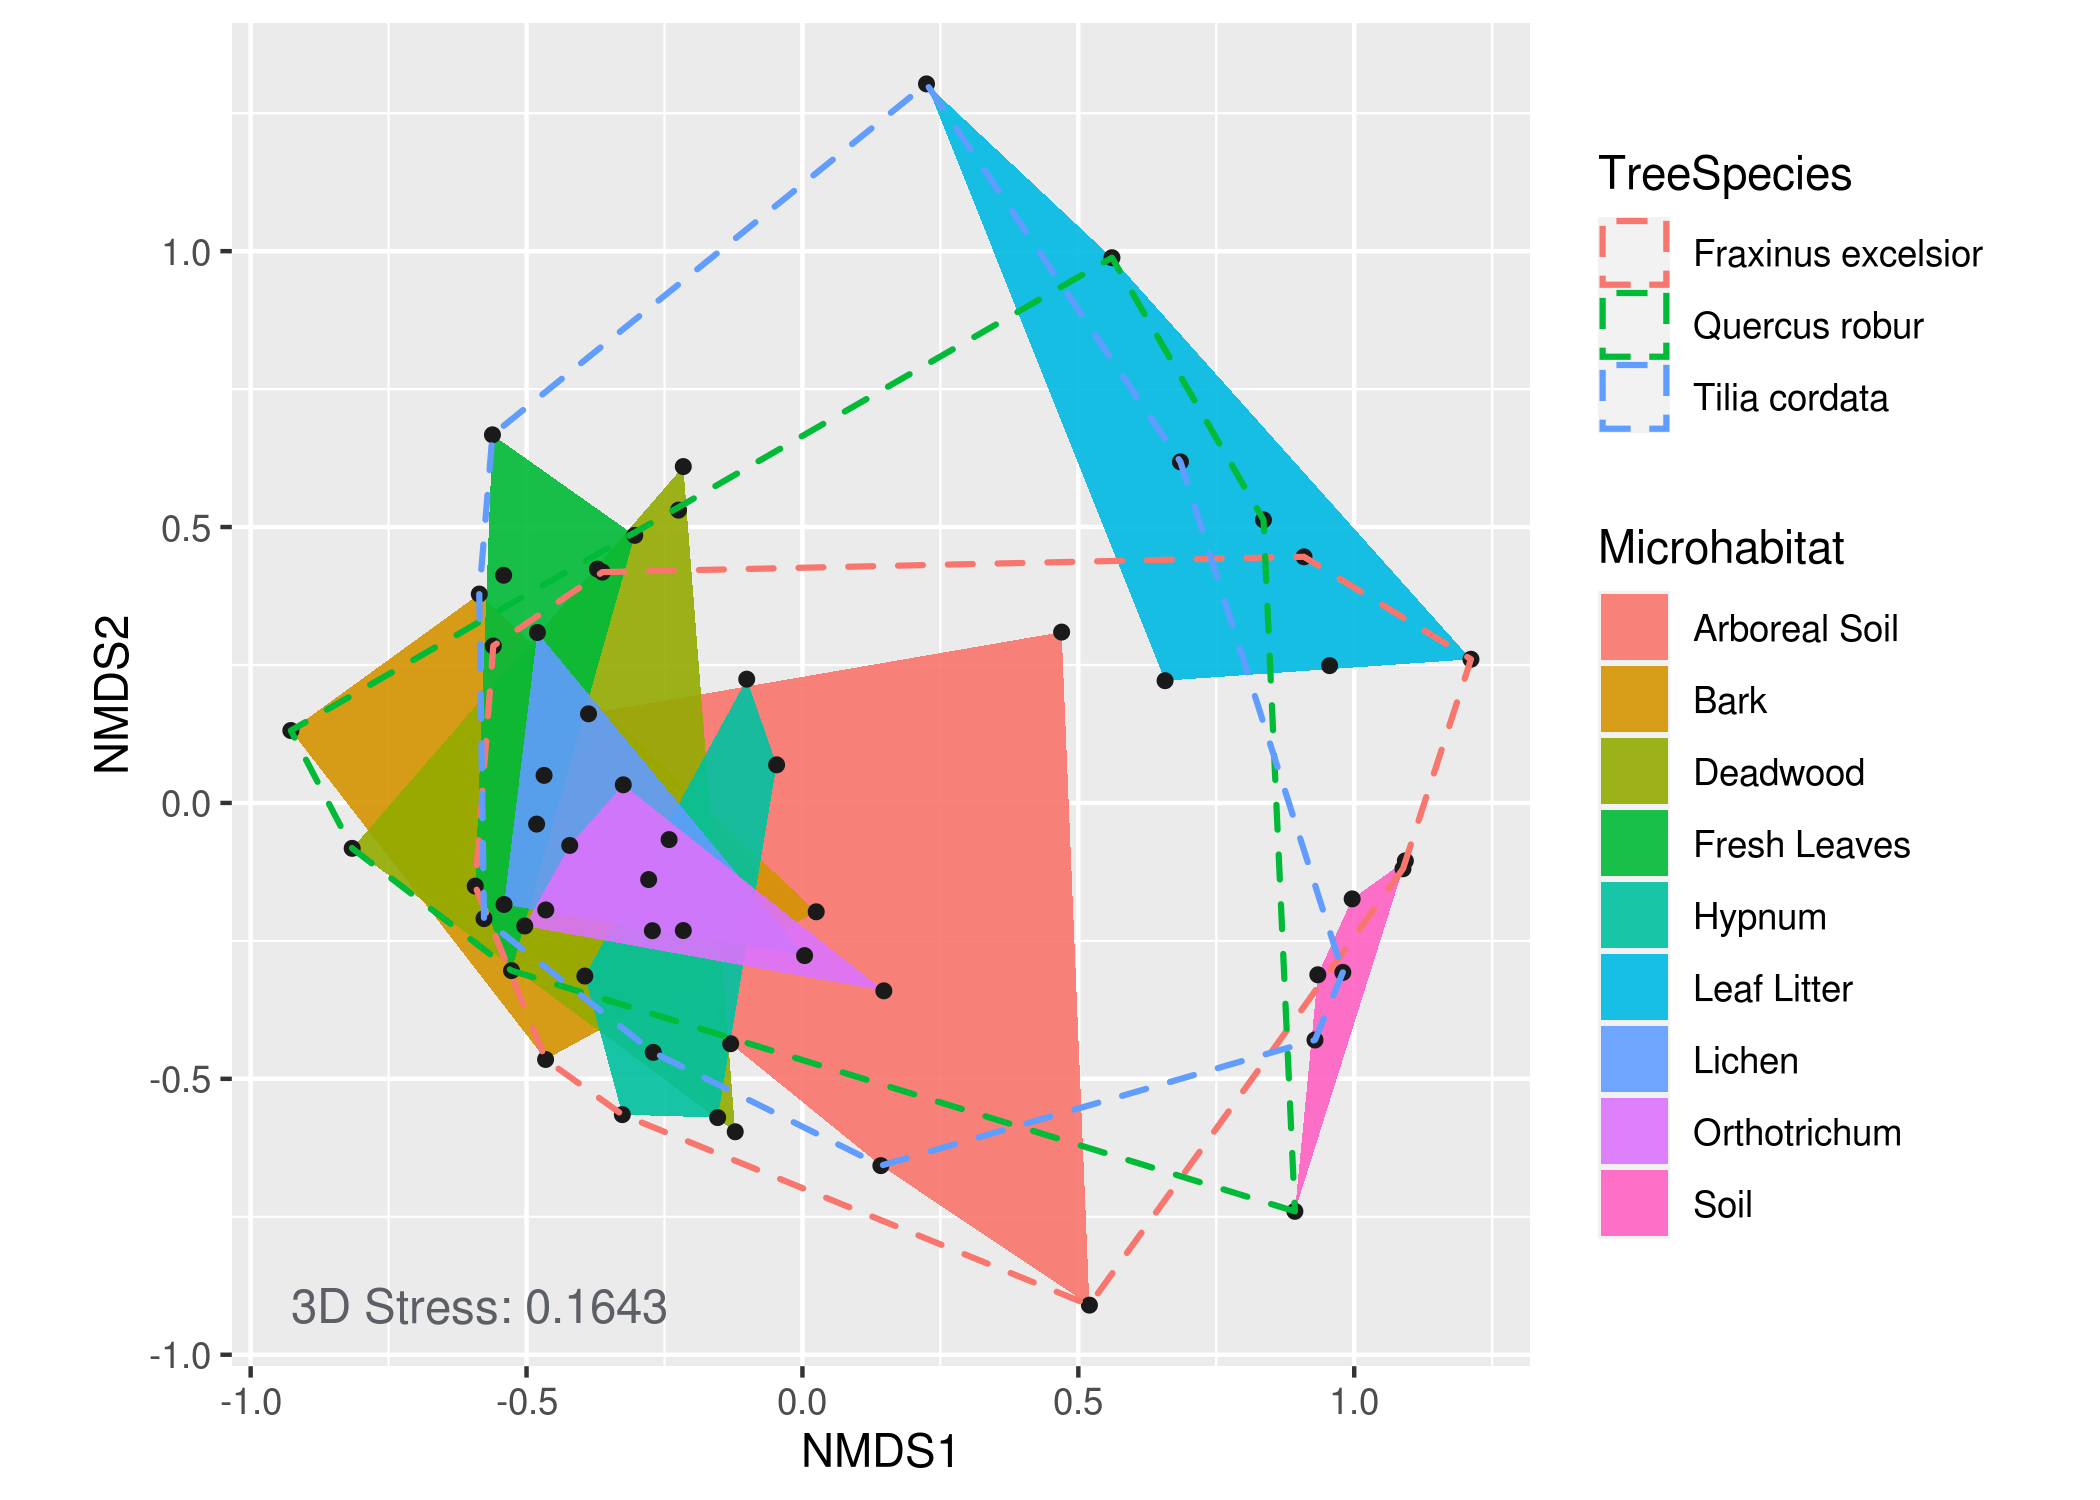
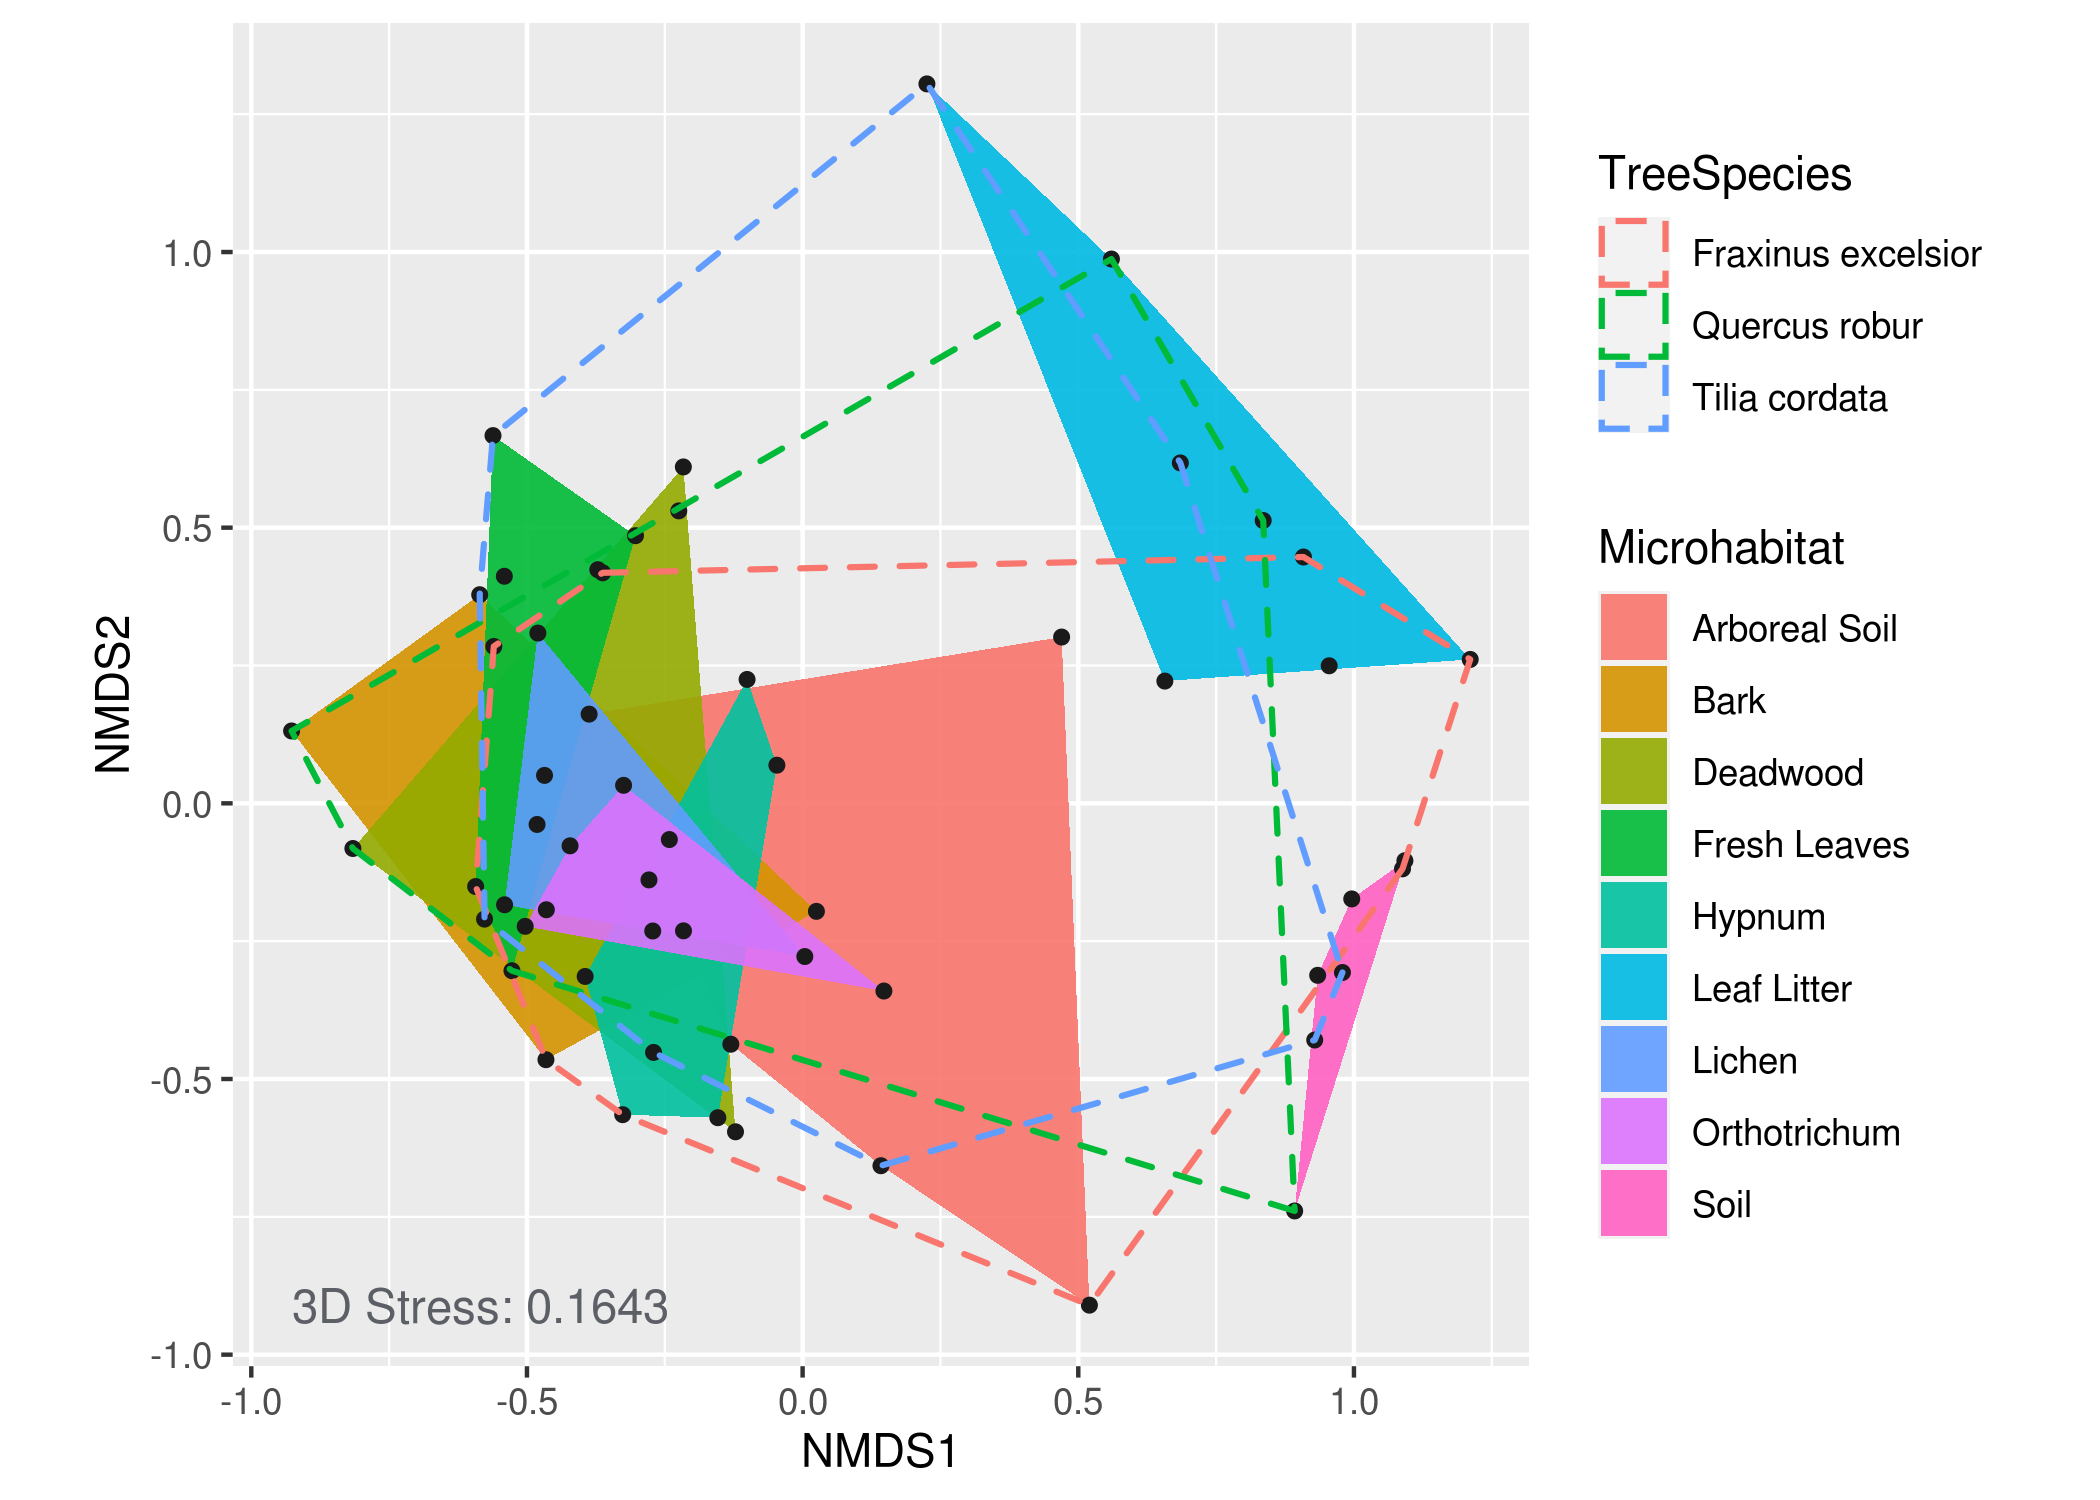
Updated Readme

diff --git a/Readme.md b/Readme.md
@@ -7,8 +7,9 @@ This package aims to assist the easy implementation of Nonmetric
 Multidimensional Scaling (NMDS) plots into `ggplot`.
 
 The package includes an example dataset from [Jauss et
-al. (2020)](%22https://www.frontiersin.org/articles/10.3389/fmicb.2020.592189/%22),
-an OTU abundance table including sample metadata, and three functions:
+al. 2020](https://www.frontiersin.org/articles/10.3389/fmicb.2020.592189/),
+which is an OTU abundance table including sample metadata, and three
+functions:
 
   - `get_NMDS_ordination`: The function takes the OTU table (with or
     without metadata) and performs the NMDS ordination. The resulting
@@ -87,12 +88,12 @@ head(hull.data)
 ```
 
     ##          NMDS1      NMDS2      NMDS3 site  Microhabitat
-    ## 10  0.52012052 -0.9101468 -0.2091332   10 Arboreal Soil
-    ## 36  0.14212187 -0.6573375 -0.2788176   36 Arboreal Soil
-    ## 23 -0.13007877 -0.4363868  0.8153256   23 Arboreal Soil
-    ## 16 -0.38765998  0.1615132 -0.6834027   16 Arboreal Soil
-    ## 3   0.46972551  0.3096684 -0.9899930    3 Arboreal Soil
-    ## 49  0.02496164 -0.1972875  0.1770371   49          Bark
+    ## 10  0.52019236 -0.9101673 -0.2069323   10 Arboreal Soil
+    ## 36  0.14206562 -0.6572729 -0.2794746   36 Arboreal Soil
+    ## 23 -0.13023534 -0.4368888  0.8148968   23 Arboreal Soil
+    ## 16 -0.38727621  0.1618064 -0.6832429   16 Arboreal Soil
+    ## 3   0.46977397  0.3016228 -0.9926107    3 Arboreal Soil
+    ## 49  0.02501816 -0.1959304  0.1791760   49          Bark
 
 The function returns the dataframe with the coordinates neccessary for
 the polygons to draw around the microhabitats.
